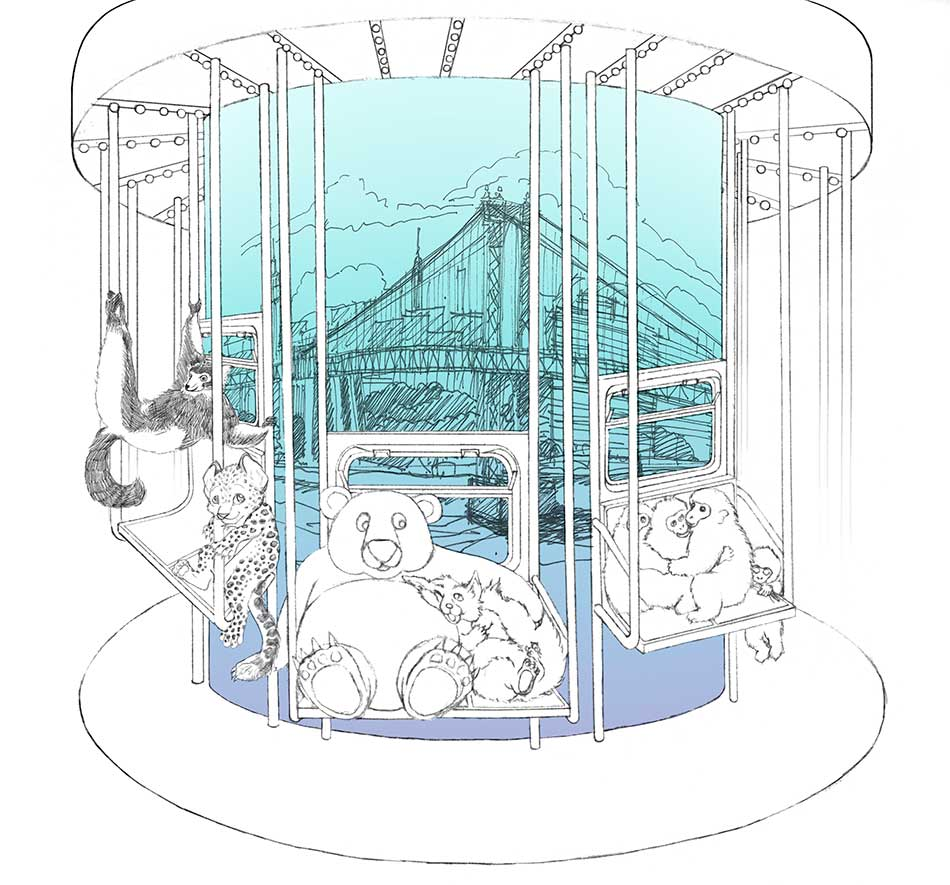
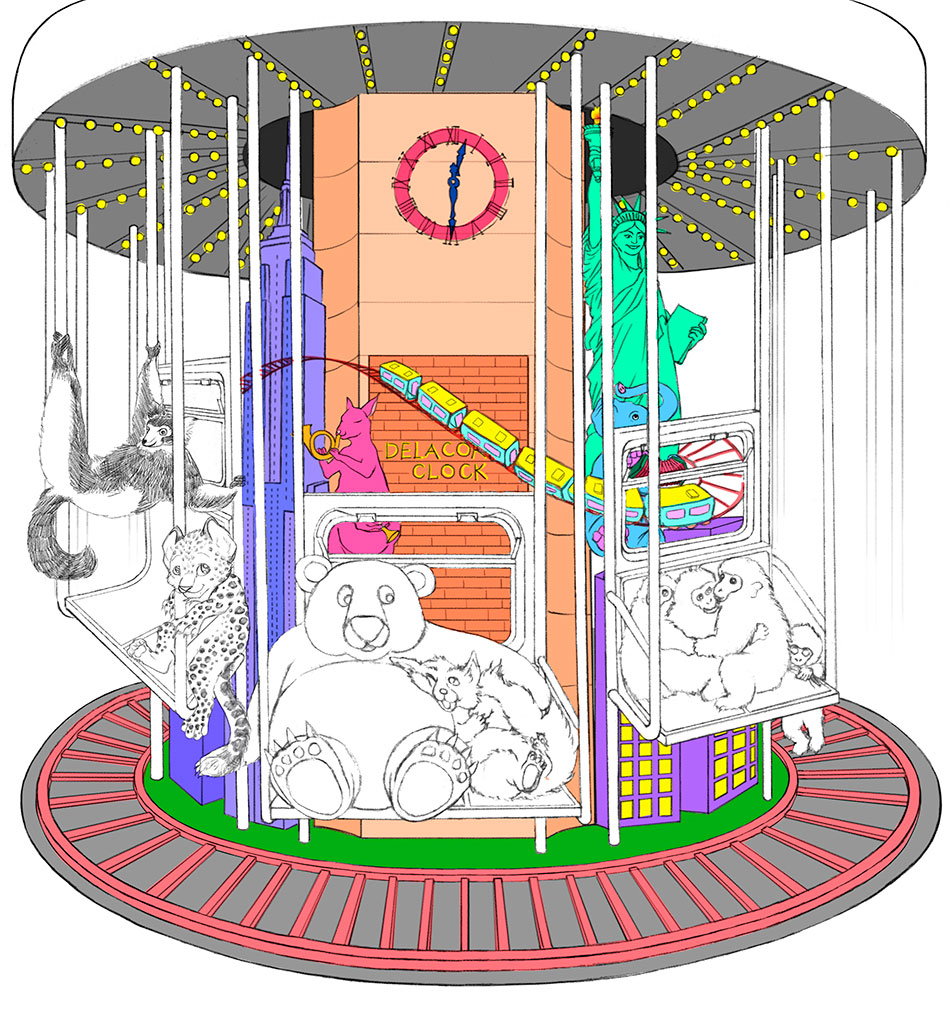
update text for subway scene and update 4 images with more color

diff --git a/index.html b/index.html
@@ -59,8 +59,9 @@
 
         <h1>4th Fl. Central Park</h1>
         <h2>Central Park Zoo Animals’ Subway Ride</h2>
-        <p>The widely adored animals of the Central Park Zoo are going for a ride on the New York subway. Red panda and grizzly bear snuggle with each other and snow monkeys pile up in one seat! How adorable! The project is in a 1x1x1 cubic feet space that is half embedded into the wall with a curved glass. The piece will have a motor in the center and built into the wall that actually operates the carousel with LED light design that can be viewed 360 degree. Each set of seats comes with a window that allows viewers to see the sceneary outside.</p>
-        <p>The main animals are sculpted with polymer clay, with fabrics, faux fur, acrylic paints, beads, gold leaf, and metals as needed. The carousel structure will be constructed with wood and the mechanical parts will be constructed with metals. The center of the carousel will have mirrors to create viewing depth to the piece.</p>
+        <p>Riding the subway are the widely adored animals of the Central Park Zoo. In the foreground red panda and grizzly bear snuggle with each other as snow monkeys pile up in another seat! How adorable!  The excitemnt is raises as the viewer simultaneously witnesses scenes from within the train in the foreground as well as seeing the train from afar traveling on a track through the background. This displays two perspectives of space into a singular moment. In the background the train rolls past the iconic Delacorte Music Clock of the central park zoo, as well as many other familiar New York City landmarks.</p>
+        <p>The project is in a 1x1x1 cubic foot space that is half embedded into the wall with a curved glass. The piece will be constructed with a motor in the center that operates the carousel. With LED lights embedded into the carousel that can be viewed 360 degrees. Each set of seats is backed with a window that allows viewers to peer through beyond to the scenes outside the train.</p>
+        <p>The animals are sculpted with polymer clay, with fabrics, faux fur, acrylic paints, beads, gold leaf, and metals. The carousel structure will be built with wood and the mechanical parts will be built with metals.</p>
         <img class="responsive-media" src="images/subway_zoo.jpg" alt="Subway Zoo">
         <img class="responsive-media" src="images/subway_zoo_installation.jpg" alt="Subway Zoo Details">
 
